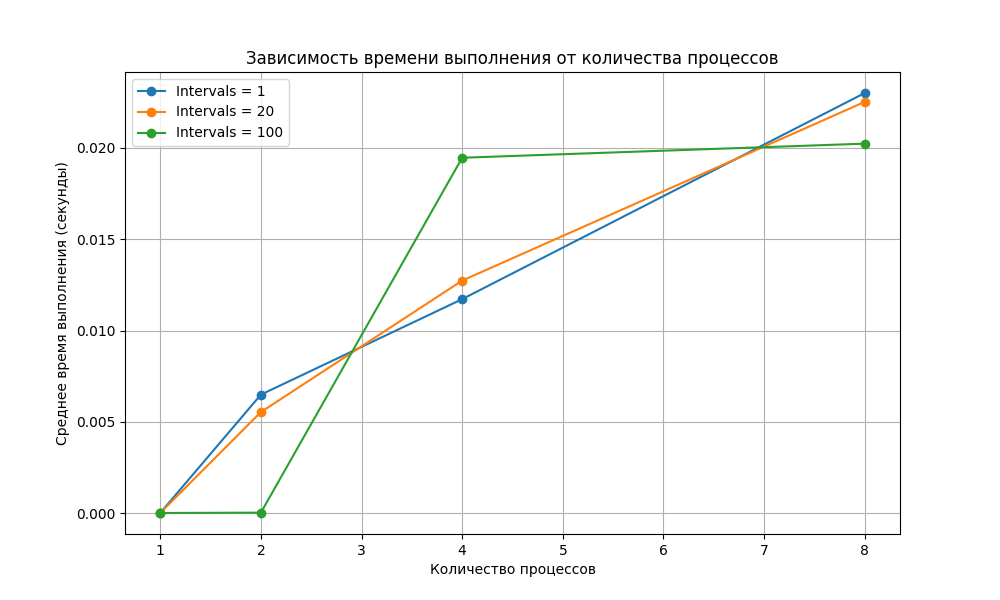
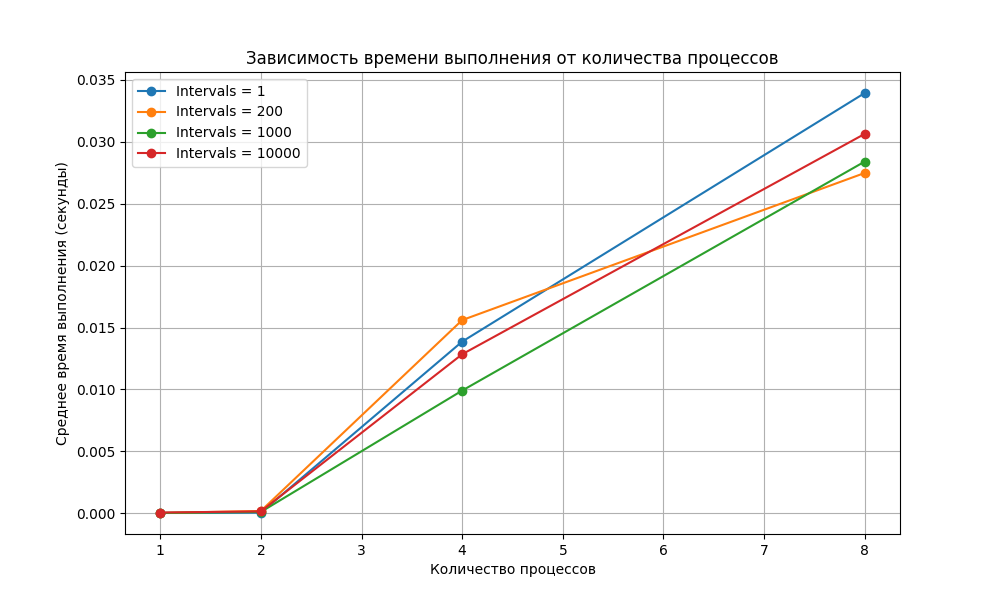
22

diff --git a/Лаб_раб_1_Вычисление_pi/main.py b/Лаб_раб_1_Вычисление_pi/main.py
@@ -39,9 +39,9 @@ def run_mpi(num_procs, num_intervals, num_attempts):
 # Внешний цикл по количеству процессов
 procs_list = [1, 2, 4, 8]
 # Внутренний цикл по количеству интервалов
-intervals_list = [1, 20, 100]
+intervals_list = [1, 200, 1000, 10000]
 # Глубокий цикл по количеству попыток
-attempts_list = [1, 3, 5]
+attempts_list = [1, 3, 5,10]
 
 # Словарь для сохранения времени выполнения
 results = {}
